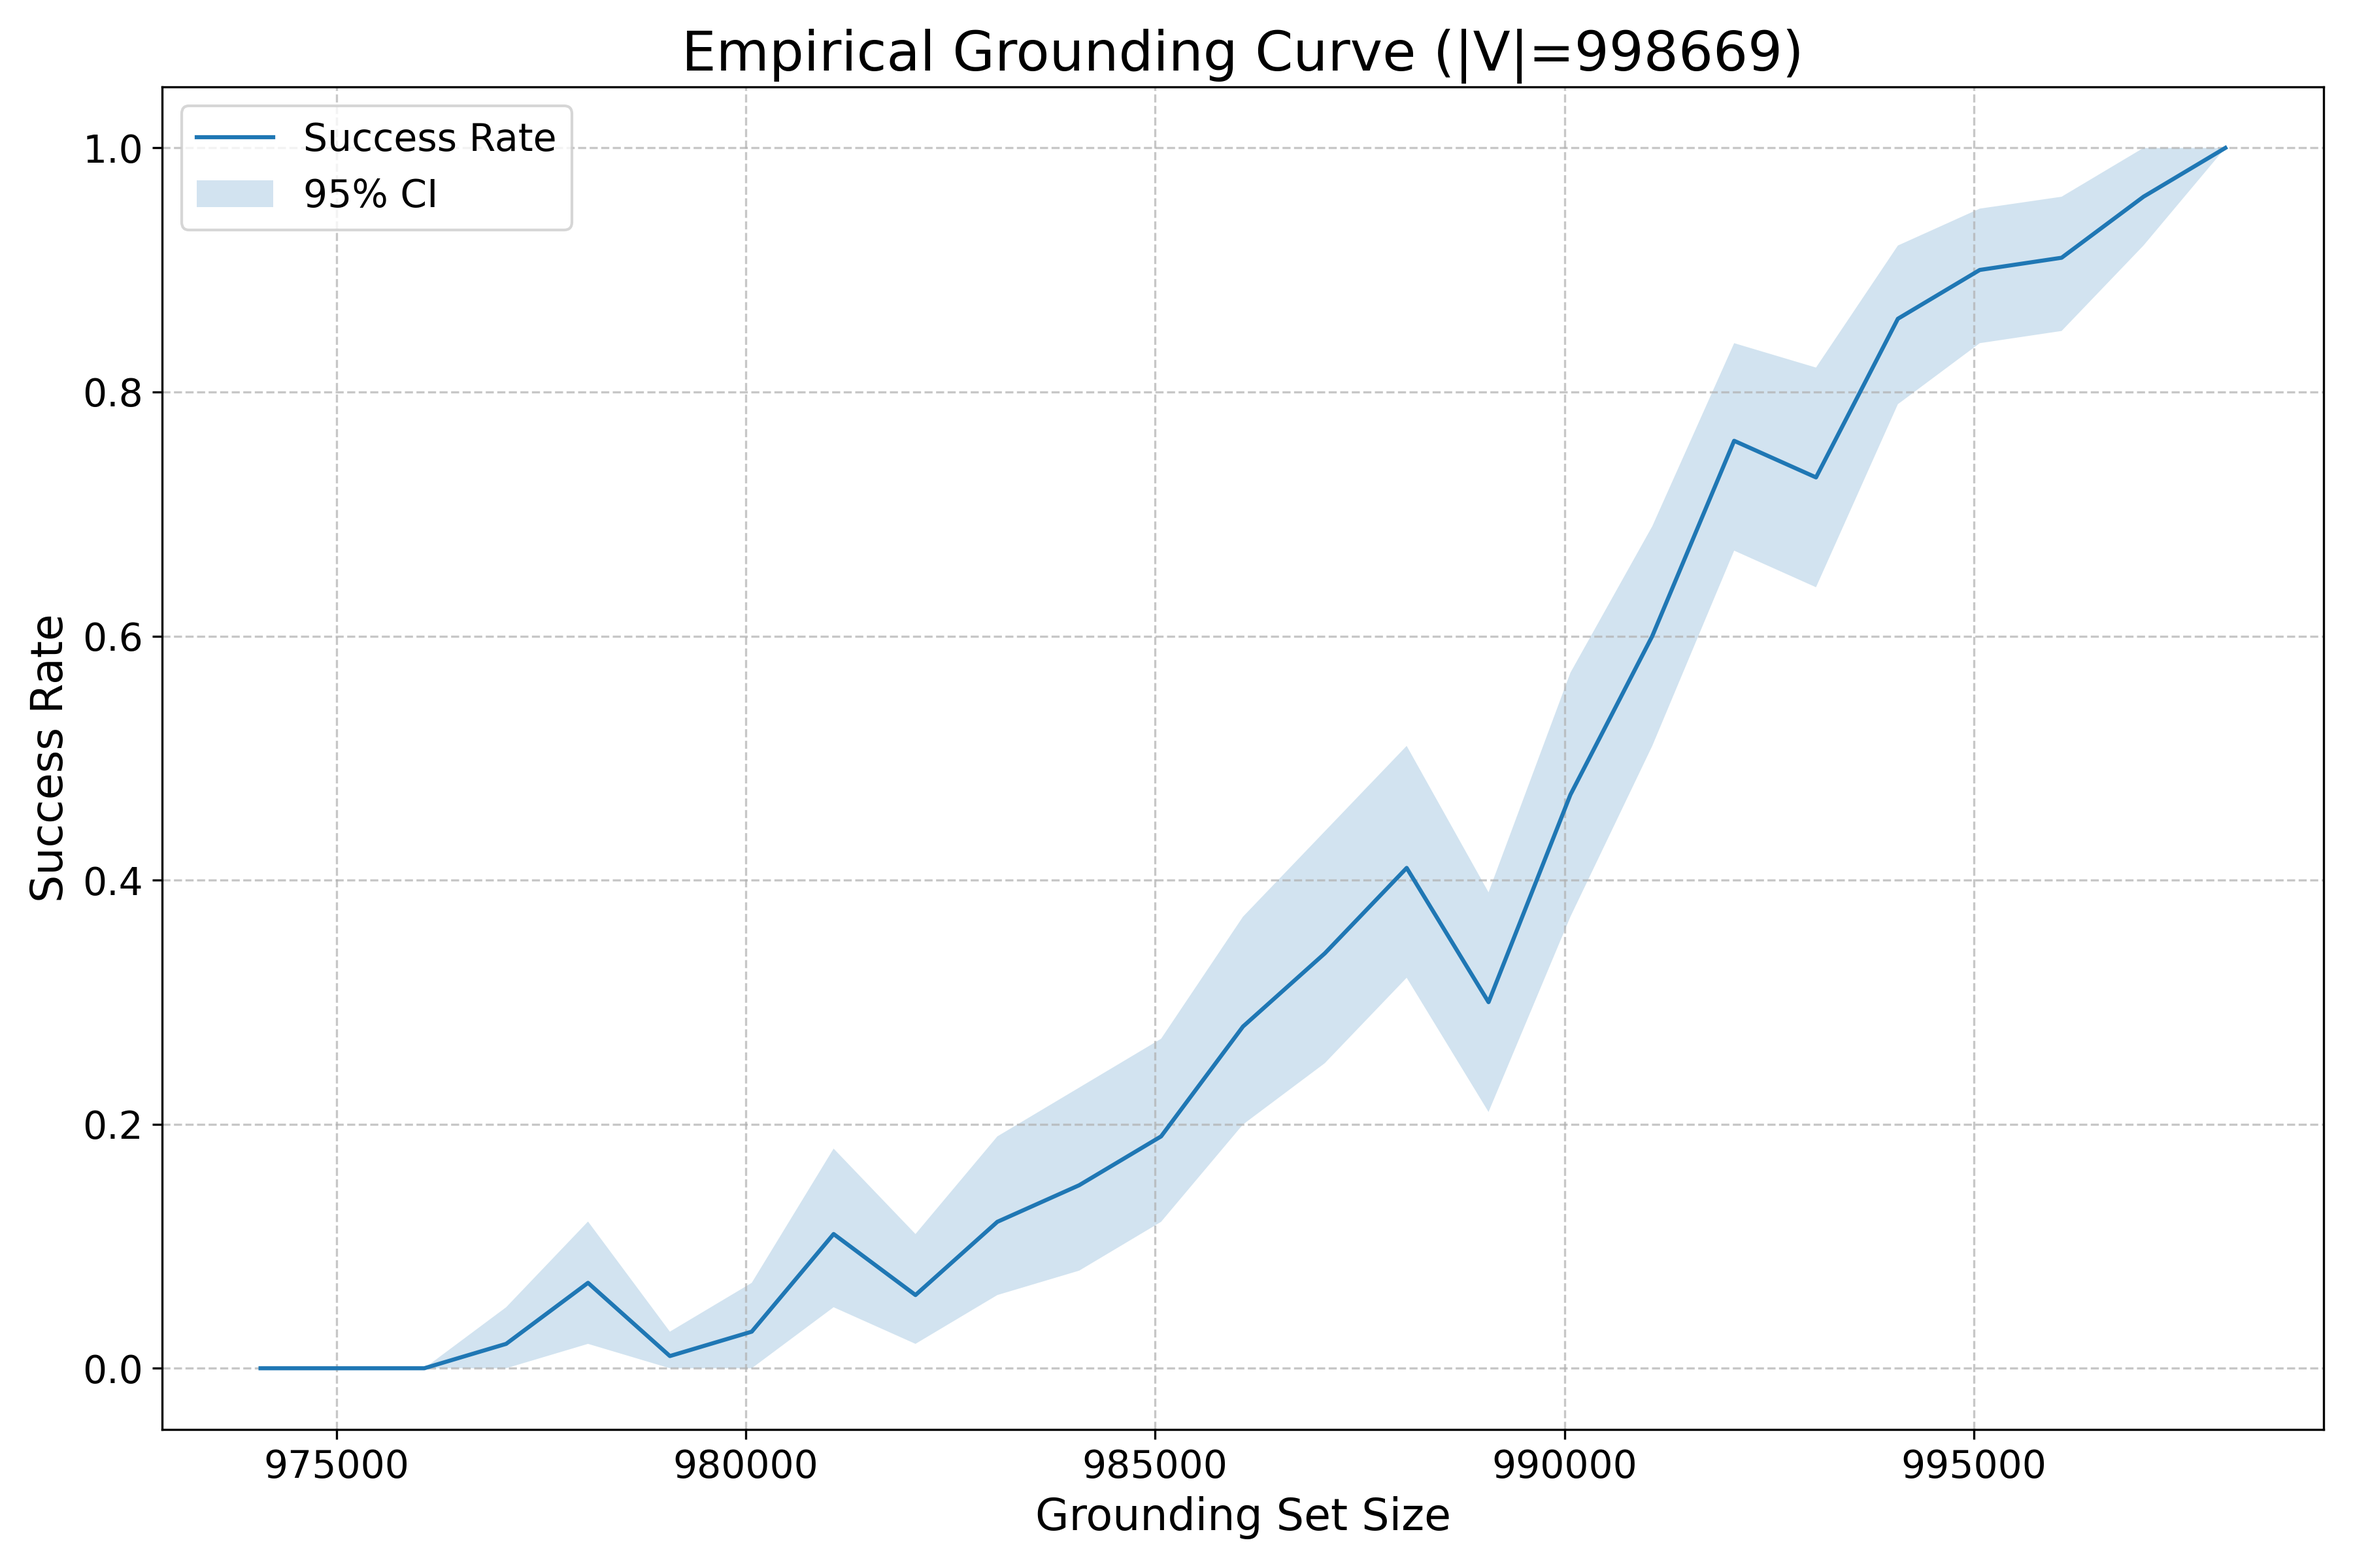
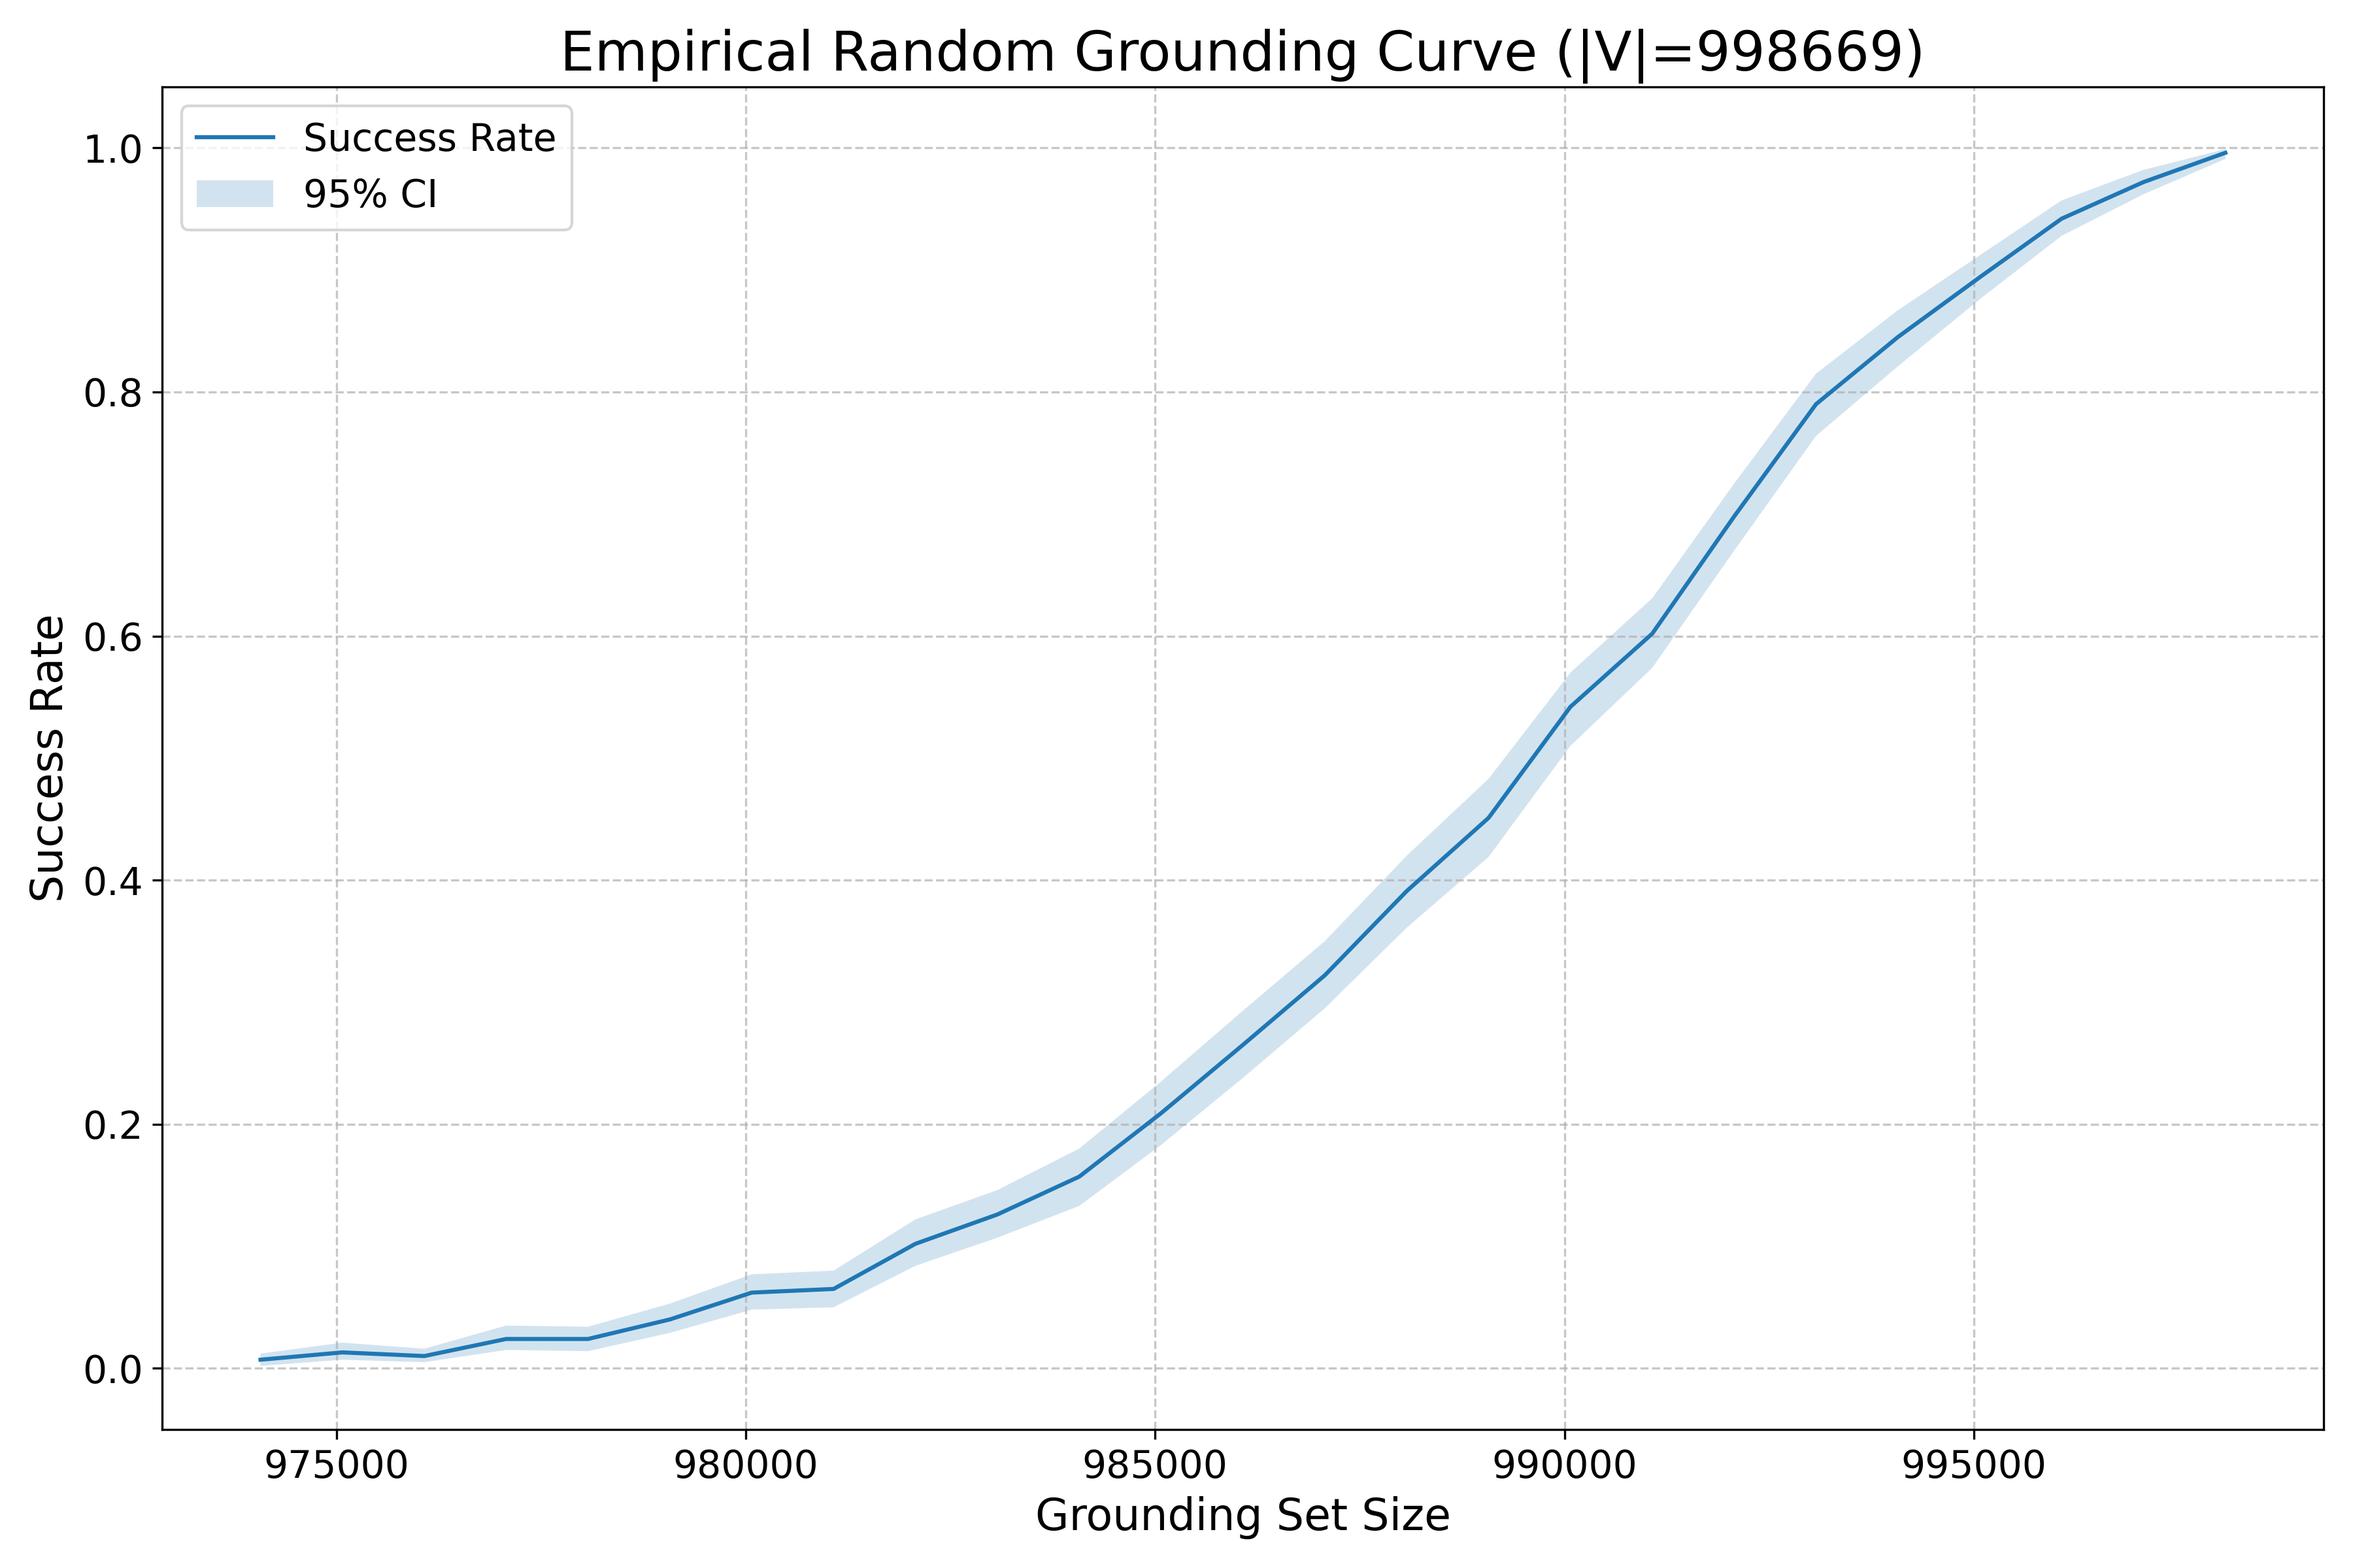
Updated random_grounding_curve.png with more trials.

Changed region(s): [[0.0933, 0.0938, 0.9644, 0.875], [0.2489, 0.0, 0.8089, 0.0625]]

diff --git a/analysis/plot_random_grounding_curve.py b/analysis/plot_random_grounding_curve.py
@@ -40,7 +40,7 @@ def plot_grounding_curve(results, output_path):
 
 if __name__ == "__main__":
     parser = argparse.ArgumentParser(description="Plot empirical grounding sweep results")
-    parser.add_argument("--input_path", type=str, default="data/experiments/random_grounding_curve.json", help="Path to grounding sweep JSON results")
+    parser.add_argument("--input_path", type=str, default="data/experiments/random_grounding.json", help="Path to grounding sweep JSON results")
     parser.add_argument("--output_path", type=str, default="data/plots/random_grounding_curve.png", help="Path to save the plot image")
     args = parser.parse_args()
 

diff --git a/README.md b/README.md
@@ -2,7 +2,7 @@
 What's the smallest number of words you need to know to be able to learn them all?
 
 ## Setup
-1. Download postprocessed data extracted from the latest Wiktionary dump.
+1. Download [postprocessed data](https://kaikki.org/dictionary/English/index.html) extracted from the latest [Wiktionary](https://en.wiktionary.org/wiki/Wiktionary:Main_Page) dump.
     ```
     mkdir -p data/raw_input
     wget -P data/raw_input https://kaikki.org/dictionary/English/words/kaikki.org-dictionary-English-words.jsonl
@@ -79,23 +79,23 @@ python -m analysis.plot_random_grounding_curve
 
 <img src="https://github.com/anirudhajith/dictionary-completeness/blob/main/data/plots/random_grounding_curve.png" width="500">
 
-So under this heuristic, even if you take away 25,000 $(\approx 2.5\\%)$ of the vertices, you're dead in the water. This is the number to beat. 
+So under this heuristic, even if you take away 30,000 ($\approx$ 3%) of the vertices, you're dead in the water. This is the number to beat. 
 
 ### Greedily pick vertices with the highest out-degrees
-One simple baseline that could plausibly work better is to simply greedily pick vertices with the highest out-degrees until you first reach a valid grounding set. The intuition here is that you're choosing to include vertices in your grounding set that have maximal utility in that they enable maximal marginal reachability.
+One simple baseline that could plausibly work better is to simply greedily pick vertices with the highest out-degrees until you first reach a valid grounding set (post including $B$). The intuition here is that you're choosing to include vertices in your grounding set that have maximal utility in that they enable maximal marginal reachability.
 
 ```
-python -m baselines.greedy_outdegree_grounding
+python -m baselines.greedy_out_degree_grounding
 ```
 
-Wow, this works so much better! This greedy strategy finds a grounding set of size 389,576 $(\approx 39.0\\%)$.
+Wow, this works so much better! This greedy strategy finds a grounding set of size 389,576 (39.0%).
 
 ## Results
 
 Call the set of undefined and self-referential words $B \subset V$.
 
 | Baseline                                                      | Grounding set size ↓ | %age words retained ↓ |
-| ------------------------------------------------------------- | -------------------- | --------------------- |
-| do nothing                                                    | 998669               | 100                   |
-| random (after including $B$)                                  | $\approx$ 975000     | $\approx$ 97.6        |
+| ------------------------------------------------------------- | --------------------:| ---------------------:|
+| do nothing                                                    | 998669               | 100.0                 |
+| random (after including $B$)                                  | $\approx$ 970000     | $\approx$ 97.1        |
 | greedily pick highest out-degree words (after including $B$)  | 389576               | 39.0                  |
